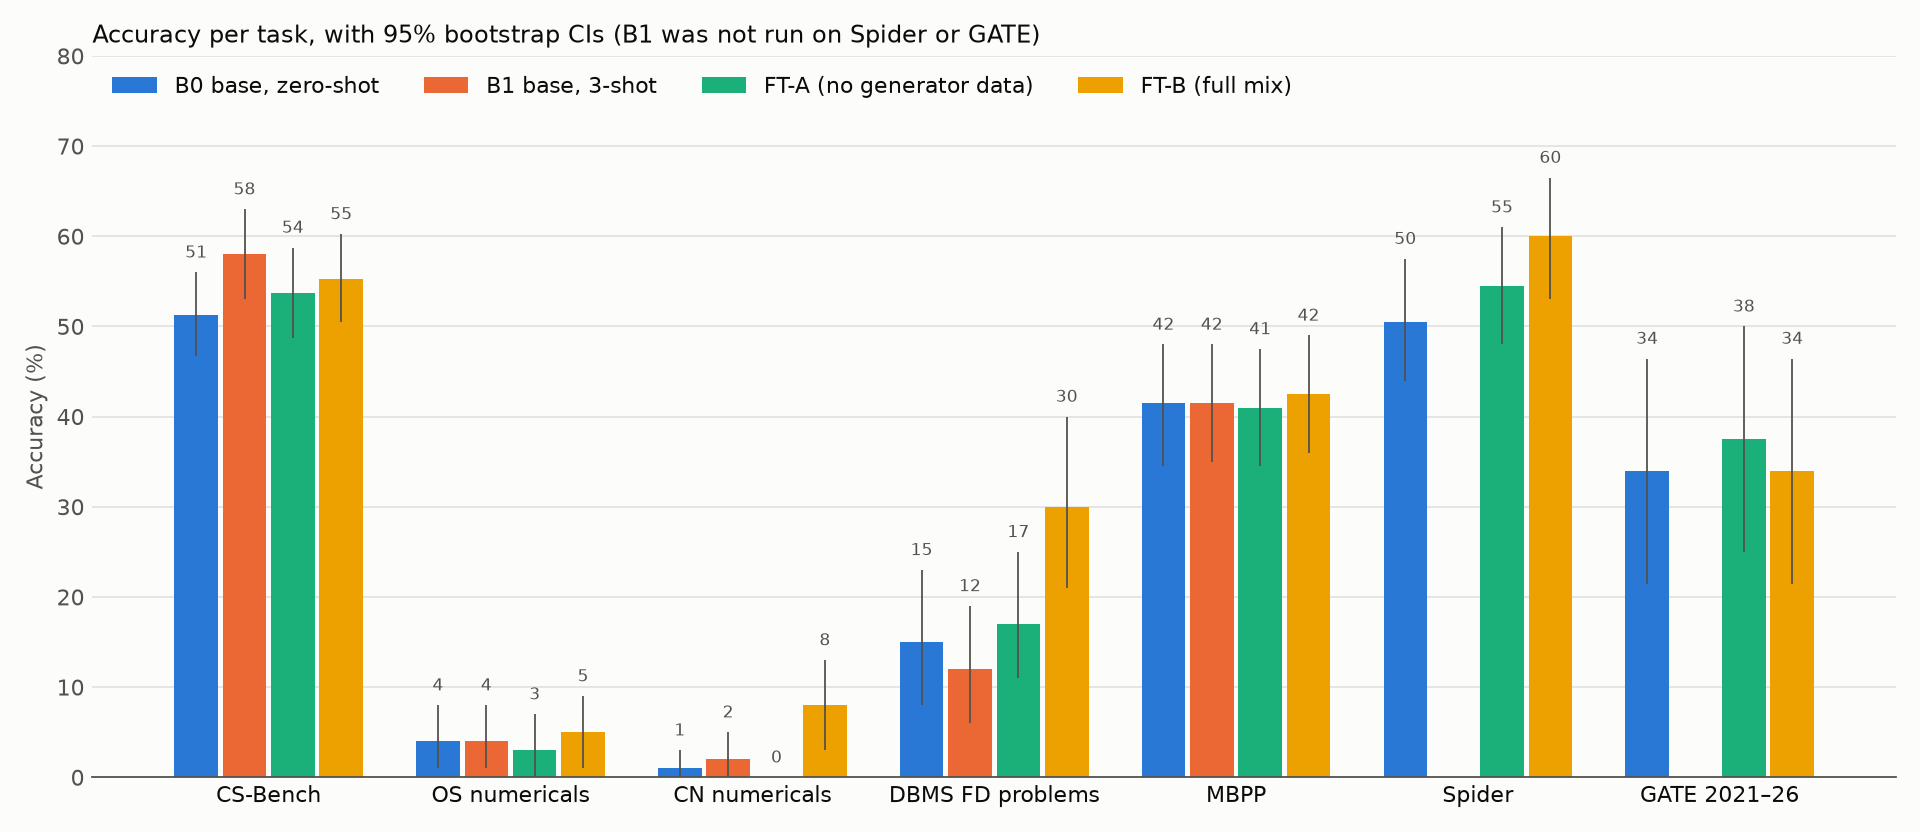
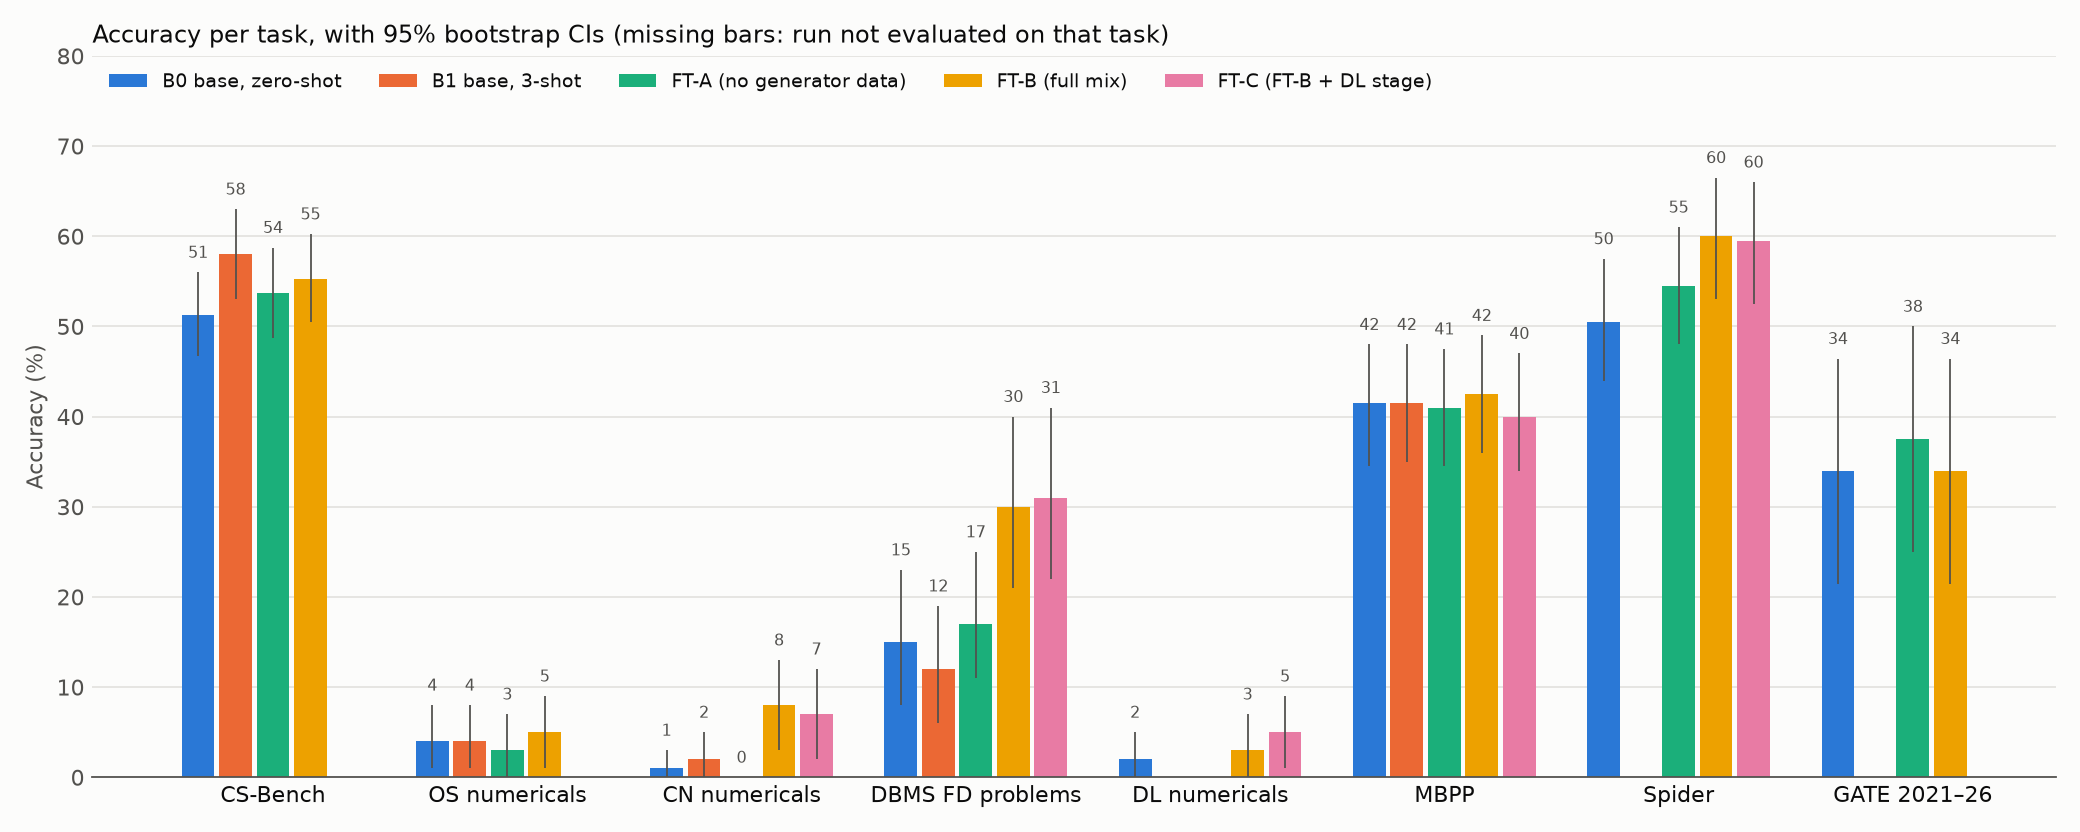
feat(eval): include FT-C and DL task in figures and partial-credit analysis

diff --git a/eval/plots.py b/eval/plots.py
@@ -48,13 +48,15 @@ def accuracy():
     style(ax)
     width, gap = 0.8 / len(runs), 0.02
     for i, (run, label, color) in enumerate(runs):
+        labelled = False
         for j, (task, _) in enumerate(TASKS):
             res = data[run].get(task)
             if not res:
                 continue
             x = j + (i - (len(runs) - 1) / 2) * width
             acc, (lo, hi) = 100 * res["acc"], (100 * res["ci95"][0], 100 * res["ci95"][1])
-            ax.bar(x, acc, width - gap, color=color, label=label if j == 0 else None, zorder=2)
+            ax.bar(x, acc, width - gap, color=color, label=None if labelled else label, zorder=2)
+            labelled = True
             ax.errorbar(x, acc, yerr=[[acc - lo], [hi - acc]], fmt="none", ecolor=INK_2, elinewidth=0.8,
                         capsize=0, zorder=3)
             ax.text(x, hi + 1.2, f"{acc:.0f}", ha="center", va="bottom", fontsize=7, color=INK_2)

diff --git a/eval/partial_credit.py b/eval/partial_credit.py
@@ -67,6 +67,9 @@ def main():
                 cells.append("–")
                 continue
             credits = [c for it, r in zip(items, read(path)) if (c := value_credit(it["final"], r["output"])) is not None]
+            if not credits:  # e.g. gen_dbms answers are attribute sets, not numbers
+                cells.append("n/a")
+                continue
             per_run[run] = credits
             lo, hi = bootstrap(credits)
             cells.append(f"{100 * sum(credits) / len(credits):.1f} [{100 * lo:.1f}–{100 * hi:.1f}]")
